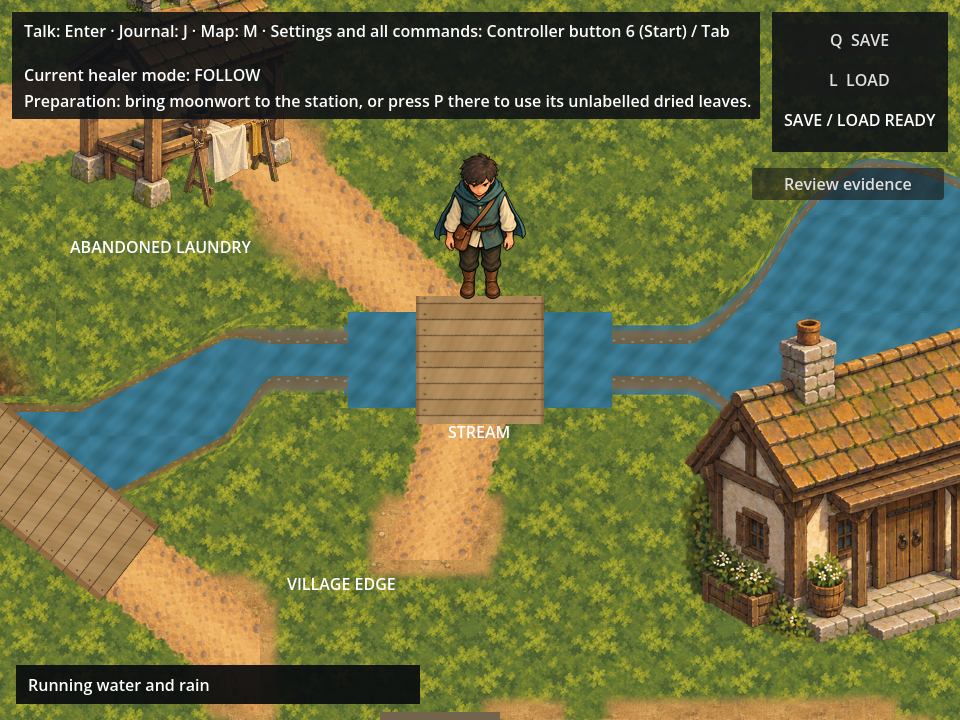
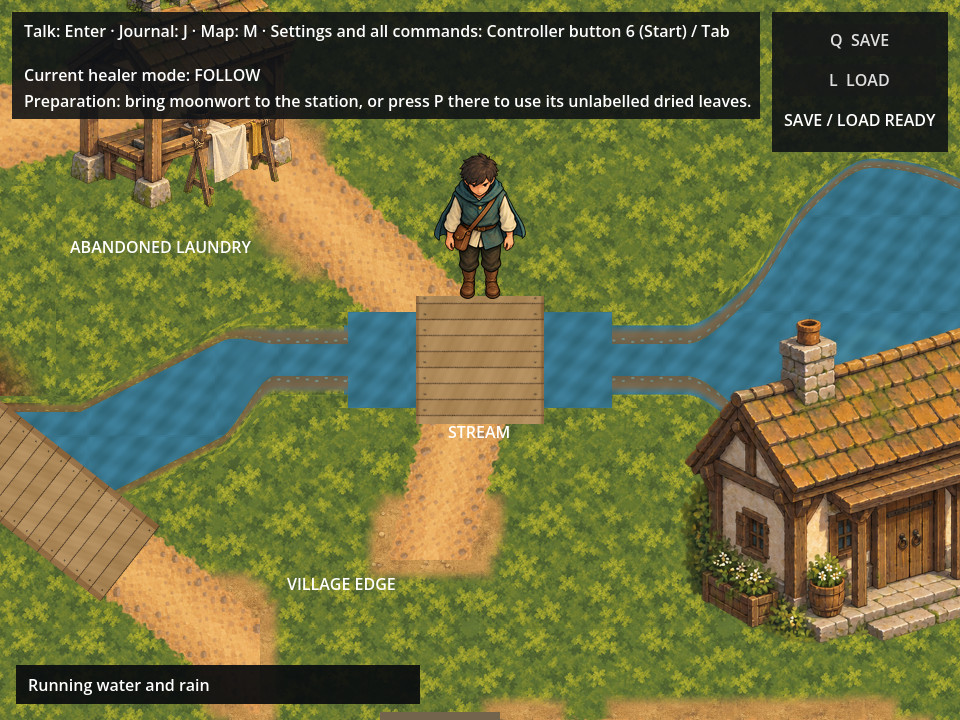
fix: address the PR #470 review on gameplay view repairs
- Move the evidence Review list and Close button with the Review entry in
  Main, and drop the settings layout's runtime coupling to that panel.
- Throw when the crossing deck texture is missing instead of drawing white.
- Check: record evidence only on request, add a watchdog against hangs,
  test reverse focus, assert deck visibility/geometry/opacity from the live
  UVs, and baseline physics from Main without the repair owners.
- Validator: drop Pillow and copied UV constants, require the bound
  eight-capture record, and reject untracked files in fenced trees.
- CI smoke: fetch full history for the validator's base commit.

Changed region(s): [[0.7812, 0.2139, 1.0, 0.275]]

diff --git a/scripts/validate-gameplay-view-repairs.py b/scripts/validate-gameplay-view-repairs.py
@@ -6,8 +6,6 @@ import json
 from pathlib import Path
 import subprocess
 
-from PIL import Image
-
 ROOT = Path(__file__).resolve().parents[1]
 PACKAGE = ROOT / 'art-direction/gameplay-view-repairs'
 BASE = json.loads((PACKAGE / 'authority.json').read_text())['base_commit']
@@ -30,7 +28,7 @@ def original(name):
 
 
 def validate():
-    """Preserve the predecessor and permit only two new presentation owners in Main."""
+    """Preserve the predecessor and permit only the two presentation owners and moved review entry in Main."""
     previous = ROOT / 'art-direction/buildings-gameplay-integration'
     record = json.loads((previous / 'verification.json').read_text())
     summary_path = previous / record['full_quality']['summary']
@@ -54,35 +52,39 @@ def validate():
     restored = current.replace(added, '', 1).replace(node, '', 1).replace(
         script, script.removesuffix('\nscript = ExtResource("gameplay_settings_layout")'), 1)
     restored = restored.replace('load_steps=246', 'load_steps=244', 1)
+    # The evidence review entry, list and close button move together from x=880 to beside Save/Load.
+    start = restored.index('[node name="TemporaryCharacterDialogueMisquotationEvidenceReviewPanel"')
+    end = restored.index('[node name="CharacterDialogueMisquotationEvidencePresentationSelectionController"')
+    panel = restored[start:end]
+    require(panel.count('offset_left = 960.0\n') == panel.count('offset_right = 1152.0\n') == 3,
+            'Evidence review controls are not moved together')
+    panel = panel.replace('offset_left = 960.0\n', 'offset_left = 880.0\n').replace(
+        'offset_right = 1152.0\n', 'offset_right = 1072.0\n')
+    restored = restored[:start] + panel + restored[end:]
     require(restored.encode() == original('game/Main.tscn'), 'Unscoped scene, route or physical change')
     names = subprocess.check_output(['git', 'diff', BASE, '--name-only'], cwd=ROOT, text=True).splitlines()
     require(not any(name.startswith('src/') for name in names), 'Gameplay/domain source changed')
     require(not any(name.startswith('art-direction/') and not name.startswith('art-direction/gameplay-view-repairs/')
                     for name in names), 'Predecessor art/evidence changed')
     require(not any(name.startswith('game/art/') for name in names), 'Existing runtime artwork changed')
+    # git diff ignores untracked files, so also reject stray files in fenced trees.
+    untracked = subprocess.check_output(['git', 'ls-files', '--others', '--exclude-standard', '--', 'src', 'game/art',
+                                         'art-direction'], cwd=ROOT, text=True).splitlines()
+    require(all(name.startswith('art-direction/gameplay-view-repairs/') for name in untracked),
+            'Untracked file in a fenced source/art tree')
     allowed_game = {'game/Main.tscn', 'game/GameplaySettingsLayout.cs', 'game/RetainedStreamCrossingPresentation.cs'}
     require(all(not name.startswith('game/') or name in allowed_game for name in names),
             'Existing gameplay, geometry or character source changed')
-    # Every sampled UV is inside fully opaque approved timber paint, so the retired fill cannot leak through.
-    import math
-    paint = Image.open(ROOT / 'game/art/runtime/terrain/channel-decks.png').convert('RGBA')
-    length = math.hypot(700, 550)
-    along, across = (700 / length, 550 / length), (-550 / length, 700 / length)
-    for y in range(129):
-        for x in range(129):
-            a, b = (x / 128 * 2 - 1) * 44, (y / 128 * 2 - 1) * 64
-            point = (round(1382.1818 + across[0] * a + along[0] * b),
-                     round(388 + across[1] * a + along[1] * b))
-            require(paint.getpixel(point)[3] == 255, 'Crossing UV enters transparent source pixels')
-    report = PACKAGE / 'capture-results.json'
-    if report.exists():
-        captures = json.loads(report.read_text())
-        for name, expected in captures['captures'].items():
-            require(sha(PACKAGE / name) == expected, 'UI-visible capture changed: ' + name)
-        for name, expected in captures.get('inputs', {}).items():
-            path = (ROOT / 'game' / name.removeprefix('res://')).resolve()
-            require(path.is_relative_to(ROOT) and sha(path) == expected, 'Capture input changed: ' + name)
-    print('PASS: screenshot successor preserves verified building/art evidence, source pixels, physics and scene ownership; approved crossing timber is opaque')
+    # Deck opacity under the live UVs is asserted by scripts/check-gameplay-view-repairs.gd.
+    captures = json.loads((PACKAGE / 'capture-results.json').read_text())
+    require(captures['status'] == 'passed' and len(captures['captures']) == 8 and captures['inputs'],
+            'Incomplete UI-visible capture series')
+    for name, expected in captures['captures'].items():
+        require(sha(PACKAGE / name) == expected, 'UI-visible capture changed: ' + name)
+    for name, expected in captures['inputs'].items():
+        path = (ROOT / 'game' / name.removeprefix('res://')).resolve()
+        require(path.is_relative_to(ROOT) and sha(path) == expected, 'Capture input changed: ' + name)
+    print('PASS: screenshot successor preserves verified building/art evidence, source pixels, physics and scene ownership; eight bound captures')
 
 
 if __name__ == '__main__':

diff --git a/game/GameplaySettingsLayout.cs b/game/GameplaySettingsLayout.cs
@@ -16,7 +16,6 @@ public partial class GameplaySettingsLayout : CanvasLayer
     private Label heading = null!;
     private Control hud = null!;
     private Control saves = null!;
-    private Button review = null!;
     private Vector2 fittedViewport;
 
     /// <inheritdoc />
@@ -25,7 +24,6 @@ public partial class GameplaySettingsLayout : CanvasLayer
         model = GetNode<Control>("Panel");
         hud = GetNode<Control>("../CommandOverlay/Panel");
         saves = GetNode<Control>("../CommandOverlay/SaveLoadPanel");
-        review = GetNode<Button>("../TemporaryCharacterDialogueMisquotationEvidenceReviewPanel/Review");
         frame = new ColorRect
         {
             Name = "SettingsFrame",
@@ -60,12 +58,6 @@ public partial class GameplaySettingsLayout : CanvasLayer
         float width = Math.Min(1120, viewport.X - 2 * Margin);
         float height = HeaderHeight + ModelHeight + Padding;
         float hudBottom = Math.Max(hud.GetGlobalRect().End.Y, saves.GetGlobalRect().End.Y);
-        Vector2 reviewPosition = new(saves.GetGlobalRect().End.X + 12, saves.Position.Y);
-        if (reviewPosition.X + review.Size.X > viewport.X - Margin)
-        {
-            reviewPosition = new(viewport.X - review.Size.X - Margin, hudBottom + Margin);
-        }
-        review.Position = reviewPosition;
         Vector2 origin = new((viewport.X - width) / 2,
             Math.Max(Margin, Math.Min(Math.Max((viewport.Y - height) / 2, hudBottom + Margin),
                 viewport.Y - height - Margin)));

diff --git a/game/RetainedStreamCrossingPresentation.cs b/game/RetainedStreamCrossingPresentation.cs
@@ -34,7 +34,8 @@ public partial class RetainedStreamCrossingPresentation : Node
                 SourceCenter + across - along,
                 SourceCenter + across + along,
                 SourceCenter - across + along],
-            Texture = GD.Load<Texture2D>(DeckPath),
+            Texture = GD.Load<Texture2D>(DeckPath)
+                ?? throw new InvalidOperationException("Missing crossing deck paint " + DeckPath),
             TextureFilter = CanvasItem.TextureFilterEnum.Linear,
             TextureRepeat = CanvasItem.TextureRepeatEnum.Disabled,
         });
